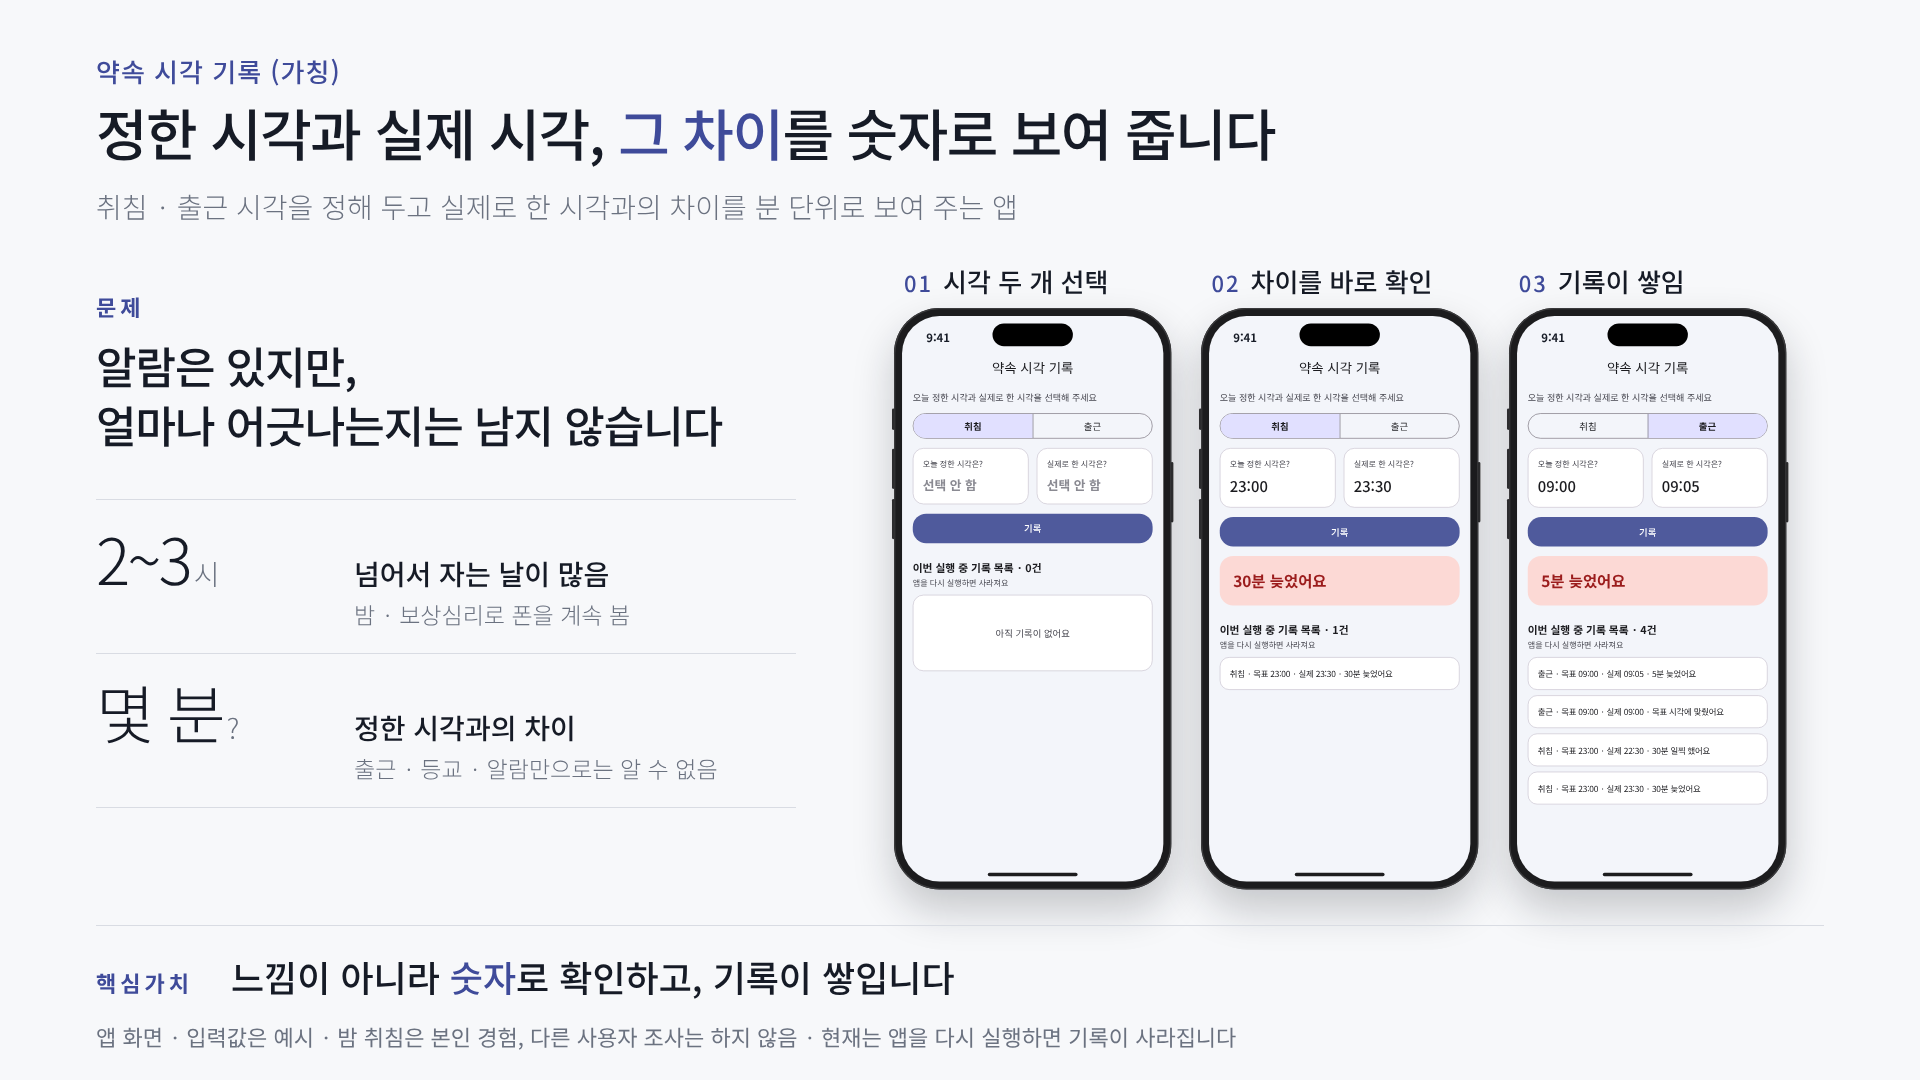
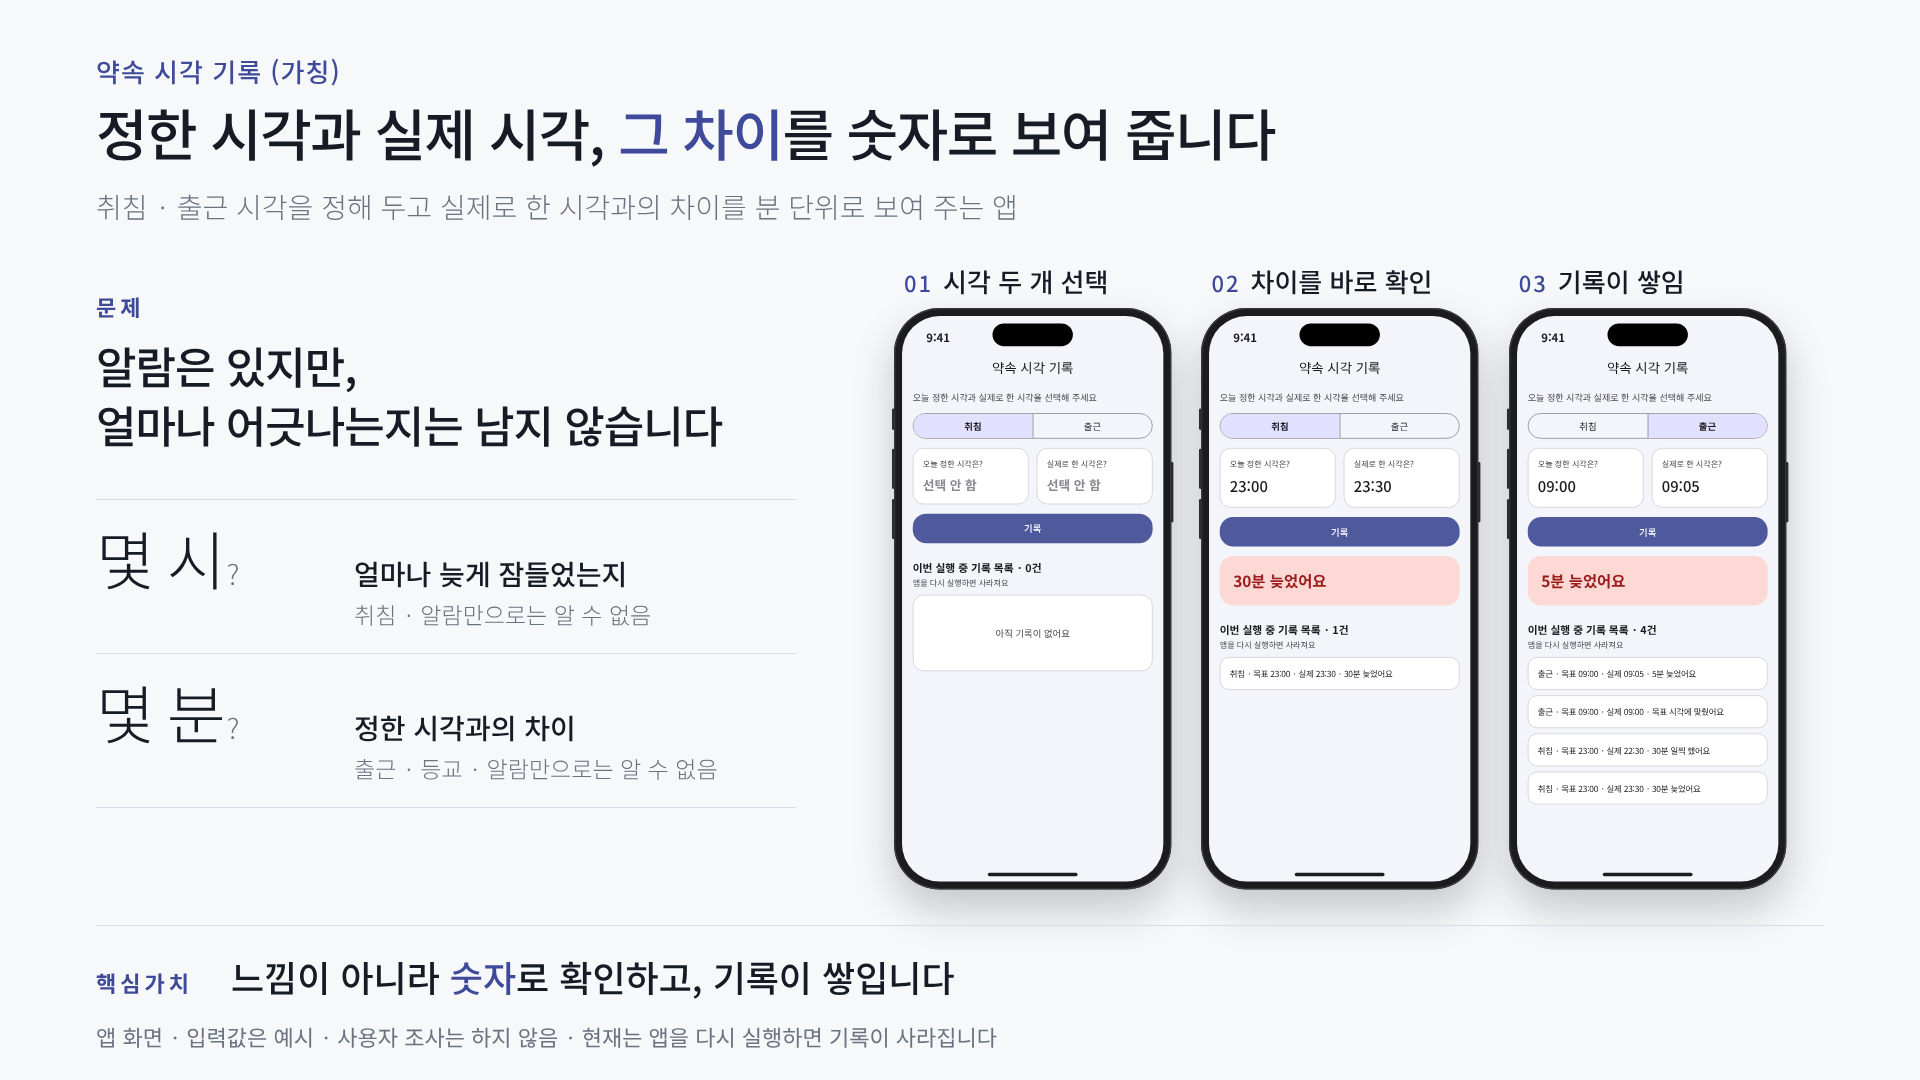
docs: 발표를 앱 중심으로 정리, 개인 사례 제거
Claude-Session: https://claude.ai/code/session_01P1GBHLbgts9XqSkhaJYGHU

Changed region(s): [[0.1875, 0.9472, 0.6562, 0.9778], [0.1875, 0.5194, 0.3438, 0.5806], [0.0312, 0.4889, 0.125, 0.55]]

diff --git a/promise_time/docs/presentation/slide.html b/promise_time/docs/presentation/slide.html
@@ -28,7 +28,7 @@ h1 em{font-style:normal;color:var(--accent)}
  <div class=tag2><b>문제</b></div>
  <div class=ph>알람은 있지만,<br>얼마나 어긋나는지는 남지 않습니다</div>
  <div class=st>
-  <div class=s><div class=n>2~3<small>시</small></div><div class=t><b>넘어서 자는 날이 많음</b><span>밤 · 보상심리로 폰을 계속 봄</span></div></div>
+  <div class=s><div class=n>몇 시<small>?</small></div><div class=t><b>얼마나 늦게 잠들었는지</b><span>취침 · 알람만으로는 알 수 없음</span></div></div>
   <div class=s><div class=n>몇 분<small>?</small></div><div class=t><b>정한 시각과의 차이</b><span>출근 · 등교 · 알람만으로는 알 수 없음</span></div></div>
  </div>
 </div>
@@ -44,5 +44,5 @@ document.getElementById('b').innerHTML=frame(appScreen({kind:'취침',target:'23
 document.getElementById('c').innerHTML=frame(appScreen({kind:'출근',target:'09:00',actual:'09:05',result:'5분 늦었어요',rows:['출근 · 목표 09:00 · 실제 09:05 · 5분 늦었어요','출근 · 목표 09:00 · 실제 09:00 · 목표 시각에 맞췄어요','취침 · 목표 23:00 · 실제 22:30 · 30분 일찍 했어요','취침 · 목표 23:00 · 실제 23:30 · 30분 늦었어요']}),S);
 </script>
 <div class=core><i><b>핵심가치</b></i>느낌이 아니라 <em>숫자</em>로 확인하고, 기록이 쌓입니다</div>
-<div class=foot>앱 화면 · 입력값은 예시 · 밤 취침은 본인 경험, 다른 사용자 조사는 하지 않음 · 현재는 앱을 다시 실행하면 기록이 사라집니다</div>
+<div class=foot>앱 화면 · 입력값은 예시 · 사용자 조사는 하지 않음 · 현재는 앱을 다시 실행하면 기록이 사라집니다</div>
 </body></html>

diff --git a/promise_time/docs/presentation/script.md b/promise_time/docs/presentation/script.md
@@ -1,9 +1,9 @@
-# 12주차 중간발표 대본 (간단 버전, 손으로 가리키며)
+# 12주차 중간발표 대본 (앱 중심, 간단 버전, 손으로 가리키며)
 
 - [이름]만 본인 이름으로 바꾸세요.
 - 대괄호 안의 [가리키기: ...]는 읽지 말고, 그 위치를 손으로 가리키라는 표시입니다.
 - 장표는 png/발표장표-한장.png 한 장입니다.
-- 소리 내어 읽고 시간을 재 보세요. (공지: 1분~5분, 1분이 안 되면 문제 부분을 조금 풀어서 말하세요)
+- 소리 내어 읽고 시간을 재 보세요. (공지: 1분~5분, 1분이 안 되면 앱 화면 설명을 조금 풀어서 말하세요)
 
 ## 장표에서 가리킬 곳
 
@@ -11,7 +11,7 @@
 |---|---|---|
 | ① | 맨 위 | 제목 "정한 시각과 실제 시각, 그 차이를 숫자로 보여 줍니다" |
 | ② | 왼쪽 가운데 | 문제 "알람은 있지만, 얼마나 어긋나는지는 남지 않습니다" |
-| ③ | 왼쪽 아래 | "2~3시"와 "몇 분?" 두 줄 |
+| ③ | 왼쪽 아래 | "몇 시?"와 "몇 분?" 두 줄 |
 | ④ | 오른쪽 첫 번째 화면 | 시각 두 개 선택 |
 | ⑤ | 오른쪽 두 번째 화면 | 분홍색 "30분 늦었어요" |
 | ⑥ | 오른쪽 세 번째 화면 | 기록 네 줄 |
@@ -26,16 +26,16 @@
 정해 둔 시각과 실제로 한 시각의 차이를 몇 분인지 숫자로 보여 주는 앱입니다.
 
 [가리키기: ② 왼쪽 문제]
-문제는 이렇습니다. 알람은 있는데, 얼마나 어긋나는지는 남지 않습니다.
+이 앱이 풀려는 문제는 이렇습니다. 알람은 있지만, 얼마나 어긋나는지는 남지 않습니다.
 
-[가리키기: ③ 2~3시]
-저는 밤에 폰을 계속 보다가 새벽 두세 시가 넘어서 자는 날이 많습니다.
+[가리키기: ③ 몇 시?]
+알람을 맞춰 둬도 실제로 몇 시에 잠들었는지,
 [가리키기: ③ 몇 분?]
-출근이나 등교도 알람은 맞춰 두지만, 정한 시각에서 몇 분 어긋났는지는 알 수 없습니다.
-그래서 지금까지는 느낌으로만 알았습니다. 이건 제 경험이고, 다른 사용자를 조사한 것은 아닙니다.
+출근이나 등교 시각에서 몇 분 어긋났는지는 알람만으로는 알 수 없습니다.
+그래서 지금까지는 느낌으로만 확인할 수밖에 없었습니다.
 
 [가리키기: ⑦ 맨 아래 핵심가치]
-그래서 핵심은 느낌이 아니라 숫자로 확인하는 것입니다.
+이 앱의 핵심 가치는 느낌이 아니라 숫자로 확인하는 것입니다.
 
 [가리키기: ④ 첫 번째 화면]
 첫 번째 화면에서 정한 시각과 실제 시각을 고릅니다.
@@ -44,7 +44,7 @@
 [가리키기: ⑥ 세 번째 화면]
 그리고 이 화면에서는 기록이 쌓여서 네 건을 볼 수 있습니다. 시각은 모두 예시입니다.
 
-지금은 여기까지 만들었습니다. 앱을 다시 켜면 기록은 사라지고, 습관이 바뀌는지는 아직 확인하지 못했습니다.
+지금은 여기까지 만들었습니다. 앱을 다시 켜면 기록은 사라지고, 사용자 조사나 효과 확인은 아직 하지 못했습니다.
 이상입니다. 감사합니다.
 
 ---
@@ -52,5 +52,6 @@
 ## 질문이 나오면 (한 줄 답)
 
 - 저장되나요? → 아직 안 됩니다.
-- 아이폰 수면 앱과 다른 점은? → 수면 앱은 평소 평균과 비교하고, 제 앱은 제가 정한 시각과 비교합니다.
-- 사용자 조사는 했나요? → 아니요, 제 경험입니다.
+- 아이폰 수면 앱과 다른 점은? → 수면 앱은 평소 평균과 비교하고, 제 앱은 정한 시각과 비교합니다.
+- 사용자 조사는 했나요? → 아니요, 아직 하지 않았습니다.
+- 왜 이 주제인가요? → 알람은 있는데 얼마나 어긋나는지 남지 않는다는 점이 아쉬워서 시작했습니다.
